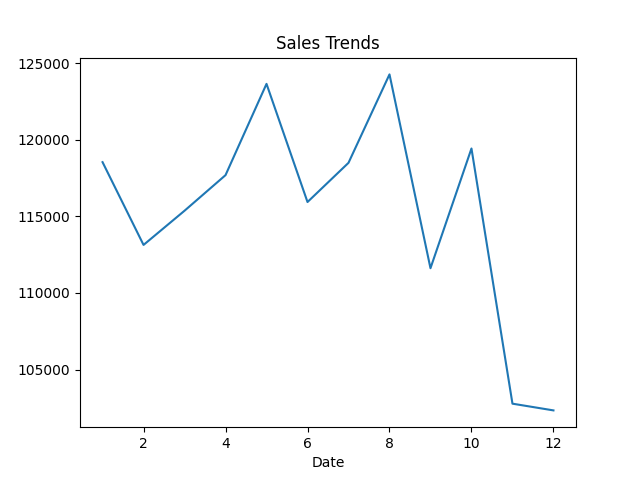
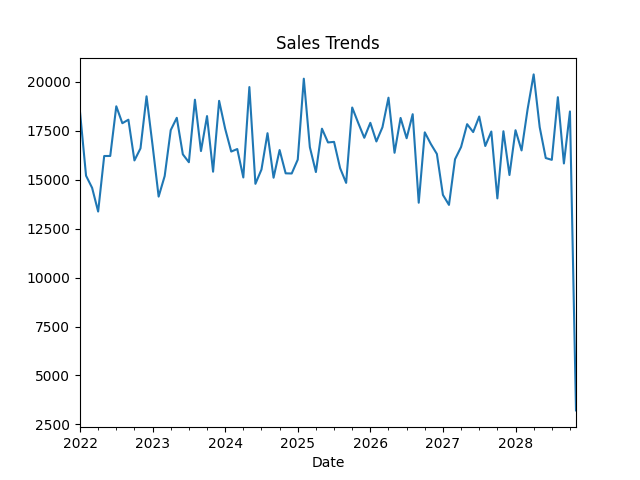
fix date column

diff --git a/assistant.py b/assistant.py
@@ -38,6 +38,22 @@ import pandas as pd
 # analyse pre-prepared data and extract insights
 df= pd.read_csv('data/sales_data.csv')
 
+# Clean up column names (fix spaces or hidden characters)
+df.columns = df.columns.str.strip()
+
+# Ensure 'Date' column exists and is converted properly
+if 'Date' not in df.columns:
+    raise KeyError("The 'Date' column is missing from the CSV. Check your file headers.")
+
+# Convert 'Date' column to datetime
+df['Date'] = pd.to_datetime(df['Date'], errors='coerce')
+
+# Drop rows where Date is invalid
+df.dropna(subset=['Date'], inplace=True)
+
+print("✅ CSV Loaded Successfully")
+print("Columns:", df.columns.tolist())
+
 # Basic exploration
 print(df.head()) # summary stats
 print(df.info()) # Data types
@@ -149,13 +165,13 @@ print("Conversation 2:", response2)
 #from langchain.prompts import PromptTemplate
 eval_chain = QAEvalChain.from_llm(llm)
 
-
-# df['Date'].dt.month
 examples = [
     {"query": "Total sales?", "answer": str(df['Sales'].sum())},
     {"query": "Sales by region?", "answer": str(df.groupby('Region')['Sales'].sum().to_dict())},
-    #{"query": "Sales performance by month?", "answer": str(df.groupby(df['Date'].dt.to_period('M'))['Sales'].sum().to_dict())},
-    # {"query": "Sales performance by month?", "answer": str(df.groupby(df['Date'].dt.month)['Sales'].sum().to_dict())},
+    # {"query": "Sales performance by month?", "answer": str(df.groupby(df['Date'].dt.to_period('M'))['Sales'].sum().to_dict())},
+    {"query": "Sales performance by month?", "answer": str(df.groupby(df['Date'].dt.to_period('M'))['Sales'].sum().sort_index().to_dict()
+    )},
+# {"query": "Sales performance by month?", "answer": str(df.groupby(df['Date'].dt.month)['Sales'].sum().to_dict())},
     {"query": "Calculate median, std dev of Sales?", "answer": f"Median: {df['Sales'].median()}, Std Dev: {df['Sales'].std()}"},
 ]
 
@@ -166,6 +182,13 @@ print("Evaluation Results:", graded)
 # Data visualization
 
 # Sales trends over time
+df['Date'] = pd.to_datetime(df['Date'], errors='coerce')
+df.dropna(subset=['Date'], inplace=True)
+
+df.groupby(df['Date'].dt.to_period('M'))['Sales'].sum().plot(kind='line')
+plt.title('Sales Trends')
+plt.savefig('visualization_img/sales_trends.png')
+
 # df.groupby(df['Date'].dt.month)['Sales'].sum().plot(kind='line')
 # plt.title('Sales Trends')
 # plt.savefig('visualization_img/sales_trends.png')
